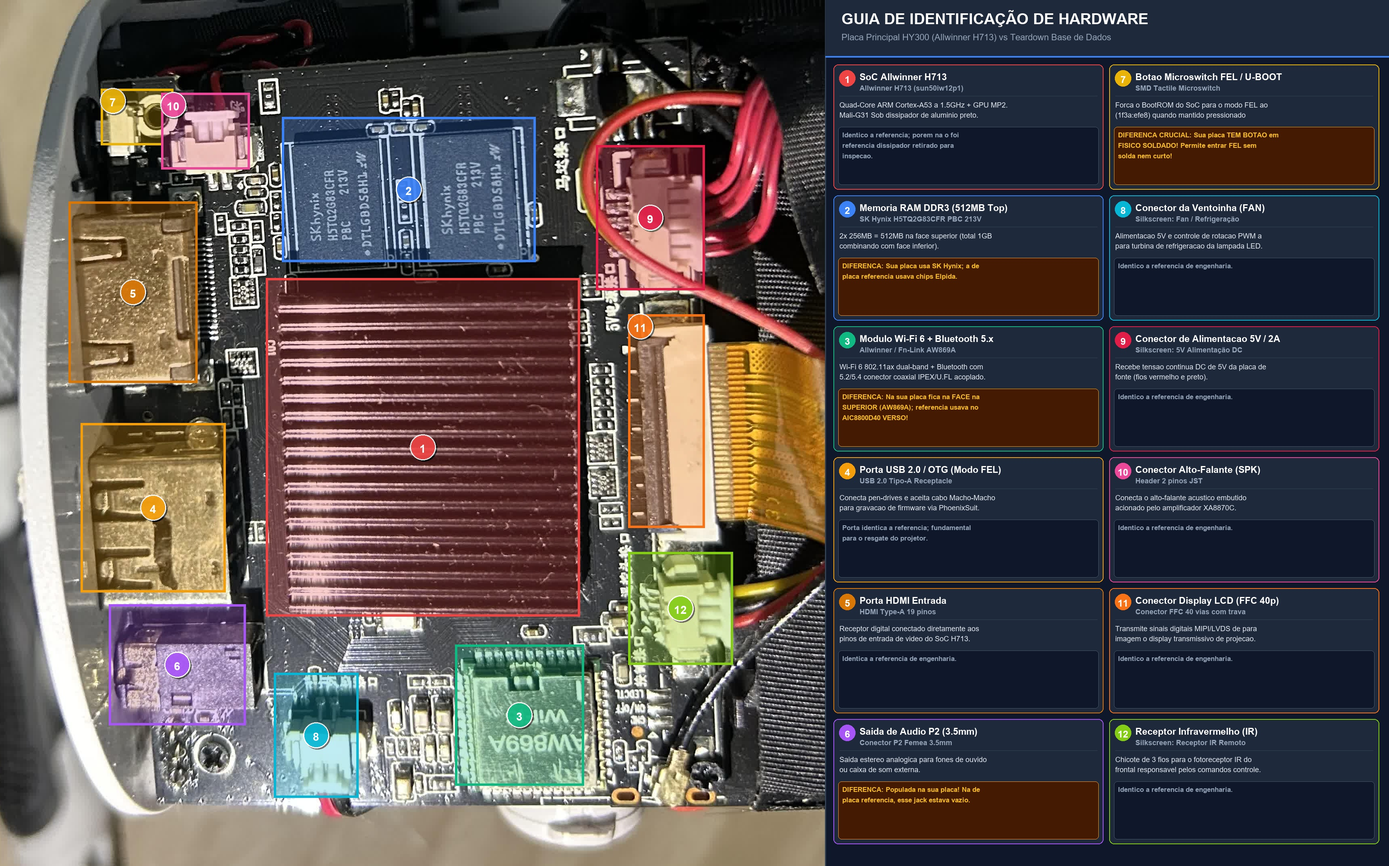
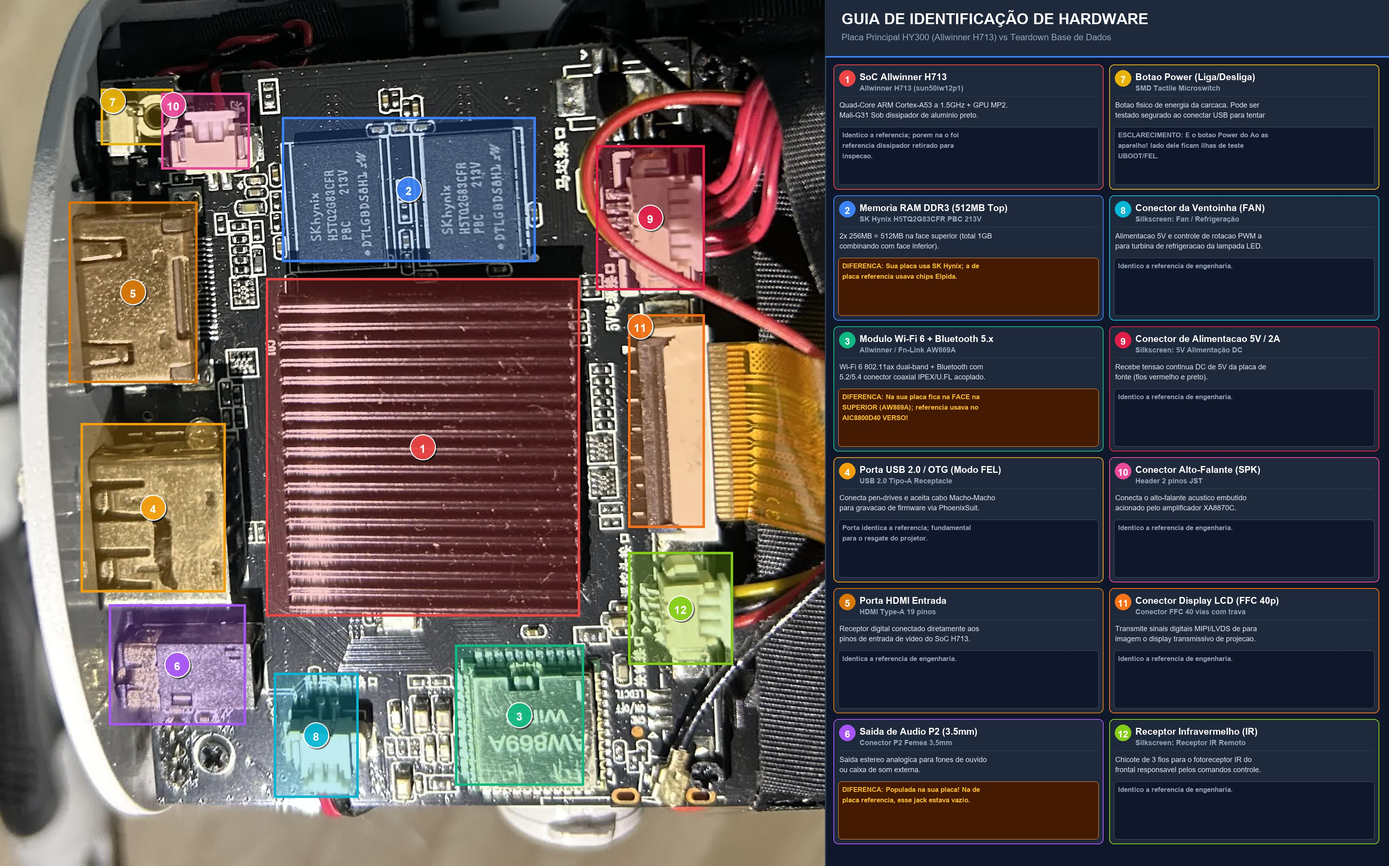
docs: esclarecer botao fisico Power vs modo FEL nas fotos anotadas e contexto

Changed region(s): [[0.7754, 0.0623, 0.9925, 0.2181]]

diff --git a/tools/gerar_fotos_anotadas.py b/tools/gerar_fotos_anotadas.py
@@ -90,10 +90,10 @@ def gerar_foto_1():
          "Saida estereo analogica para fones de ouvido ou caixa de som externa.",
          "DIFERENCA: Populada na sua placa! Na placa de referencia, esse jack estava vazio."),
          
-        (7, "Botao Microswitch FEL / U-BOOT", (250, 220, 430, 360), (234, 179, 8),
-         "Botao Fisico de Recuperacao de Fabrica", "SMD Tactile Microswitch",
-         "Forca o BootROM do SoC para o modo FEL (1f3a:efe8) quando mantido pressionado ao plugar na energia/USB.",
-         "DIFERENCA CRUCIAL: Sua placa TEM BOTAO FISICO SOLDADO! Permite entrar em FEL sem solda nem curto!"),
+        (7, "Botao Power (Liga/Desliga)", (250, 220, 430, 360), (234, 179, 8),
+         "Botao Fisico Power da Carcaca", "SMD Tactile Microswitch",
+         "Botao fisico de energia da carcaca. Pode ser testado segurado ao conectar USB para tentar acionar FEL.",
+         "ESCLARECIMENTO: E o botao Power do aparelho! Ao lado dele ficam as ilhas de teste UBOOT/FEL."),
          
         (8, "Conector da Ventoinha (FAN)", (680, 1670, 890, 1980), (6, 182, 212),
          "Cooler de Exaustao e Refrigeracao", "Silkscreen: Fan / Refrigeração",
@@ -266,7 +266,7 @@ def gerar_foto_2():
     # Badges
     draw_badge(ov_draw, 1575, 1300, 55, "RAM", (59, 130, 246, 240), font=get_font(34, bold=True))
     draw_badge(ov_draw, 475, 1500, 55, "CPU", (239, 68, 68, 240), font=get_font(34, bold=True))
-    draw_badge(ov_draw, 1725, 200, 55, "FEL", (234, 179, 8, 240), font=get_font(34, bold=True))
+    draw_badge(ov_draw, 1725, 200, 55, "PWR", (234, 179, 8, 240), font=get_font(34, bold=True))
     draw_badge(ov_draw, 2000, 430, 50, "SPK", (236, 72, 153, 240), font=get_font(30, bold=True))
     draw_badge(ov_draw, 1800, 2450, 55, "5V", (225, 29, 72, 240), font=get_font(34, bold=True))
 
@@ -287,26 +287,24 @@ def gerar_foto_2():
     draw.text((cw + 40, 28), "NÚCLEO DE PROCESSAMENTO & FEL", fill=(255, 255, 255), font=get_font(38, bold=True))
     draw.text((cw + 40, 92), "Macro Detalhado: Allwinner H713, SK Hynix e Botão Físico", fill=(148, 163, 184), font=get_font(22, bold=False))
 
-    # Card 1: BOTAO FEL
+    # Card 1: BOTAO POWER & MODO FEL
     draw_rounded_card(draw, cw + 30, 170, canvas_w - 30, 680, 16, fill=(69, 26, 3), outline=(245, 158, 11), width=3)
-    draw.text((cw + 55, 195), "★ DESCOBERTA CRUCIAL: BOTÃO FÍSICO FEL", fill=(251, 191, 36), font=get_font(28, bold=True))
+    draw.text((cw + 55, 195), "★ ESCLARECIMENTO: BOTÃO POWER & MODO FEL", fill=(251, 191, 36), font=get_font(28, bold=True))
     fel_text = [
-        "Sua placa possui um microswitch SMD soldado de fabrica ao lado do HDMI!",
-        "Na placa de teardown da comunidade, este botao NAO vinha soldado (exigia",
-        "aterrar vias com pinca ou solda). Na sua placa, o processo e 100% seguro!",
+        "Este microswitch SMD lateral e o BOTAO POWER fisico da carcaca do projetor.",
+        "Na placa de teste de laboratorio havia um 2o botao ('UBOOT'), ausente aqui.",
+        "Ao lado dele ficam as ilhas nao-populadas que correspondem ao UBOOT/FEL.",
         "",
-        "COMO ACIONAR O MODO FEL (1f3a:efe8) PARA REGRAVAR A FIRMWARE:",
-        "1. Desconecte o cabo de energia e o cabo USB do projetor.",
-        "2. Abra o PhoenixSuit no computador com a imagem .img carregada.",
-        "3. Mantenha este BOTAO FEL PRESSIONADO com o dedo ou espatula plastica.",
-        "4. Conecte o cabo USB Macho-Macho entre o PC e a porta USB do projetor.",
-        "5. Conecte o cabo de energia na tomada (mantendo o botao pressionado).",
-        "6. O PhoenixSuit detectara instantaneamente o projetor em modo FEL!",
-        "7. Solte o botao e confirme a gravacao de firmware na tela do PC."
+        "COMO TESTAR OU ENTRAR NO MODO FEL (1f3a:efe8):",
+        "1. Teste rapido: Segure o botao POWER apertado e conecte o cabo USB ao PC.",
+        "   Se o PhoenixSuit detectar '1f3a:efe8', o circuito roteia Power para FEL!",
+        "2. Metodo garantido s/ abrir: Segure 'Vol+' no controle remoto ao ligar a energia.",
+        "3. Metodo via serial UART: Digite 'efex' no terminal PuTTY (porta COM9).",
+        "4. Metodo por contato: Aterrar a via de UBOOT ao lado do HDMI durante o boot."
     ]
     for idx, l in enumerate(fel_text):
-        fcol = (255, 255, 255) if idx < 3 else ((254, 240, 138) if "COMO ACIONAR" in l else (226, 232, 240))
-        fbld = True if (idx < 3 or "COMO ACIONAR" in l) else False
+        fcol = (255, 255, 255) if idx < 3 else ((254, 240, 138) if "COMO TESTAR" in l else (226, 232, 240))
+        fbld = True if (idx < 3 or "COMO TESTAR" in l) else False
         draw.text((cw + 55, 250 + idx * 34), l, fill=fcol, font=get_font(20, bold=fbld))
 
     # Card 2: MEMORIAS SK HYNIX

diff --git a/CONTEXTO.md b/CONTEXTO.md
@@ -56,18 +56,20 @@ Foi gerado um conjunto completo de 4 infográficos técnicos de alta definição
 
 | Imagem Anotada | Descrição & Destaques | Comparação com a Base de Referência |
 | :--- | :--- | :--- |
-| [**`01_placa_principal_geral.jpg`**](fotos_anotadas/01_placa_principal_geral.jpg) | Visão panorâmica dos 12 subsistemas: SoC Allwinner H713, 2x RAMs DDR3, Wi-Fi 6, USB 2.0 (FEL), HDMI, Áudio P2, Botão FEL, FAN, 5V DC, SPK, LCD FFC 40p e IR. | Identifica as 4 grandes diferenças da sua placa em relação ao teardown da comunidade (RAMs SK Hynix, Wi-Fi no topo, P2 populado e botão FEL soldado). |
-| [**`02_detalhe_processador_ram_botoes.jpg`**](fotos_anotadas/02_detalhe_processador_ram_botoes.jpg) | Macro de altíssima resolução do núcleo lógico: chips SK Hynix (`H5TQ2G83CFR`), dissipador H713, botão microswitch FEL e portas. | Destaque crucial: tutorial ilustrado passo a passo de como forçar o modo FEL (`1f3a:efe8`) usando o microswitch físico sem solda. |
+| [**`01_placa_principal_geral.jpg`**](fotos_anotadas/01_placa_principal_geral.jpg) | Visão panorâmica dos 12 subsistemas: SoC Allwinner H713, 2x RAMs DDR3, Wi-Fi 6, USB 2.0 (FEL), HDMI, Áudio P2, Botão Power, FAN, 5V DC, SPK, LCD FFC 40p e IR. | Identifica as diferenças da placa: RAMs SK Hynix, Wi-Fi AW869A no topo, P2 populado e botão Power mecânico. |
+| [**`02_detalhe_processador_ram_botoes.jpg`**](fotos_anotadas/02_detalhe_processador_ram_botoes.jpg) | Macro de altíssima resolução do núcleo lógico: chips SK Hynix (`H5TQ2G83CFR`), dissipador H713, botão microswitch Power e portas. | Destaque: esclarecimento sobre o botão físico Power e os métodos reais para forçar o modo FEL (`1f3a:efe8`). |
 | [**`03_detalhe_wifi_uart_sensores.jpg`**](fotos_anotadas/03_detalhe_wifi_uart_sensores.jpg) | Macro das conexões e conectividade: módulo `AW869A WIFI6`, cristal `24.000 MHz`, conector da ventoinha (`风扇接口`), jack P2 e vias UART. | Demonstra a pinagem de comunicação serial 3.3V TTL (TX/RX/GND) para leitura no PuTTY (COM9). |
 | [**`04_placa_fonte_alimentacao.jpg`**](fotos_anotadas/04_placa_fonte_alimentacao.jpg) | Visão completa da placa de alimentação `GKY40W-TYY27A REV:A01` dividida entre Zona de Alta Tensão (Primário) e Zona Segura (Secundário). | Destaque em vermelho do capacitor `KSJ VENT` (~340V DC) com regras de ouro de segurança e guia de teste de voltagens com multímetro. |
 
 ---
 
-## 4. Dispositivos de Recuperação Identificados
+## 4. Dispositivos de Recuperação & Métodos FEL Identificados
 
-### 1. Botão Físico SMD de Recuperação (FEL / U-Boot)
-- **Localização:** Na borda superior esquerda da placa preta, logo ao lado da porta HDMI (`zoom_left_hdmi_button.jpg`).
-- **Função:** Microswitch SMD com botão branco em relevo. Manter pressionado ao conectar o cabo de energia força o chip Allwinner H713 a desviar do bootloader corrompido e entrar em modo FEL USB sem necessidade de conexões adicionais.
+### 1. Botão Físico SMD (Power / Teste de FEL)
+- **Localização:** Na borda lateral ao lado do HDMI, alinhado à alavanca mecânica da carcaça plástica.
+- **Função Real:** É o **botão físico de Power (Liga/Desliga)** do projetor.
+- **Relação com FEL:** Na placa de referência havia dois botões (`POWERON` e `UBOOT`). Nesta placa comercial, apenas o botão Power veio montado. Pode ser testado segurando ao conectar o USB.
+- **Gatilho Alternativo Sem Solda (Mais Confiável):** Manter pressionado `Vol +` no controle remoto infravermelho original durante a energização (o U-Boot do H713 intercepta esse sinal e cai direto em modo FEL).
 
 ### 2. Porta Serial UART (Console U-Boot)
 - **Localização dos Pinos:** No canto inferior da placa, entre o conector branco da ventoinha (`风扇接口`) e a porta de áudio P2 (vias circulares de sinal e ilhas de solda ao lado do parafuso).
